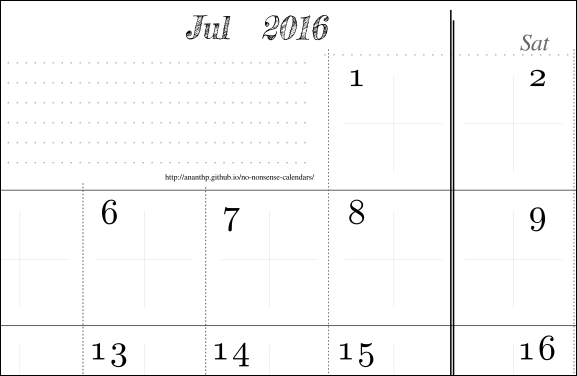
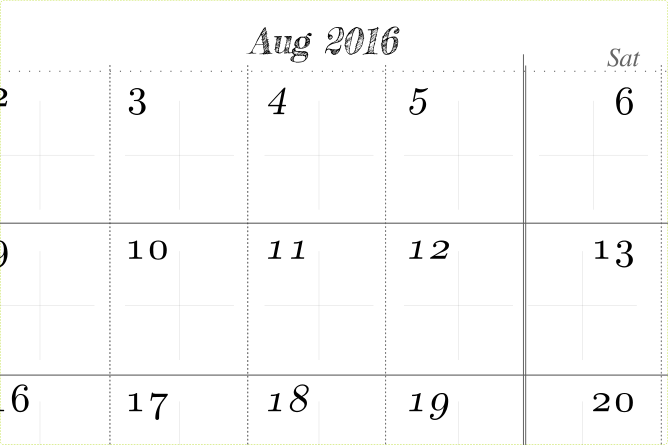
aug 2016

diff --git a/index.html b/index.html
@@ -42,7 +42,7 @@
         <h1>
 <a name="no-nonsense-calendars" class="anchor" href="#no-nonsense-calendars"><span class="octicon octicon-link"></span></a>No-Nonsense Calendar 2016</h1>
 
-<a href="https://github.com/ananthp/no-nonsense-calendars/raw/master/pdfs/2016/2016-07_jul--no-nonsense-calendar.pdf" title="pdf">
+<a href="https://github.com/ananthp/no-nonsense-calendars/raw/master/pdfs/2016/2016-08_aug--no-nonsense-calendar.pdf" title="pdf">
 <p><img src="images/sample.png" alt="Calendar sample" title="No-Nonsense Calendar/Organizer 2016"></p></a>
 
 <p>Ananth</p>
